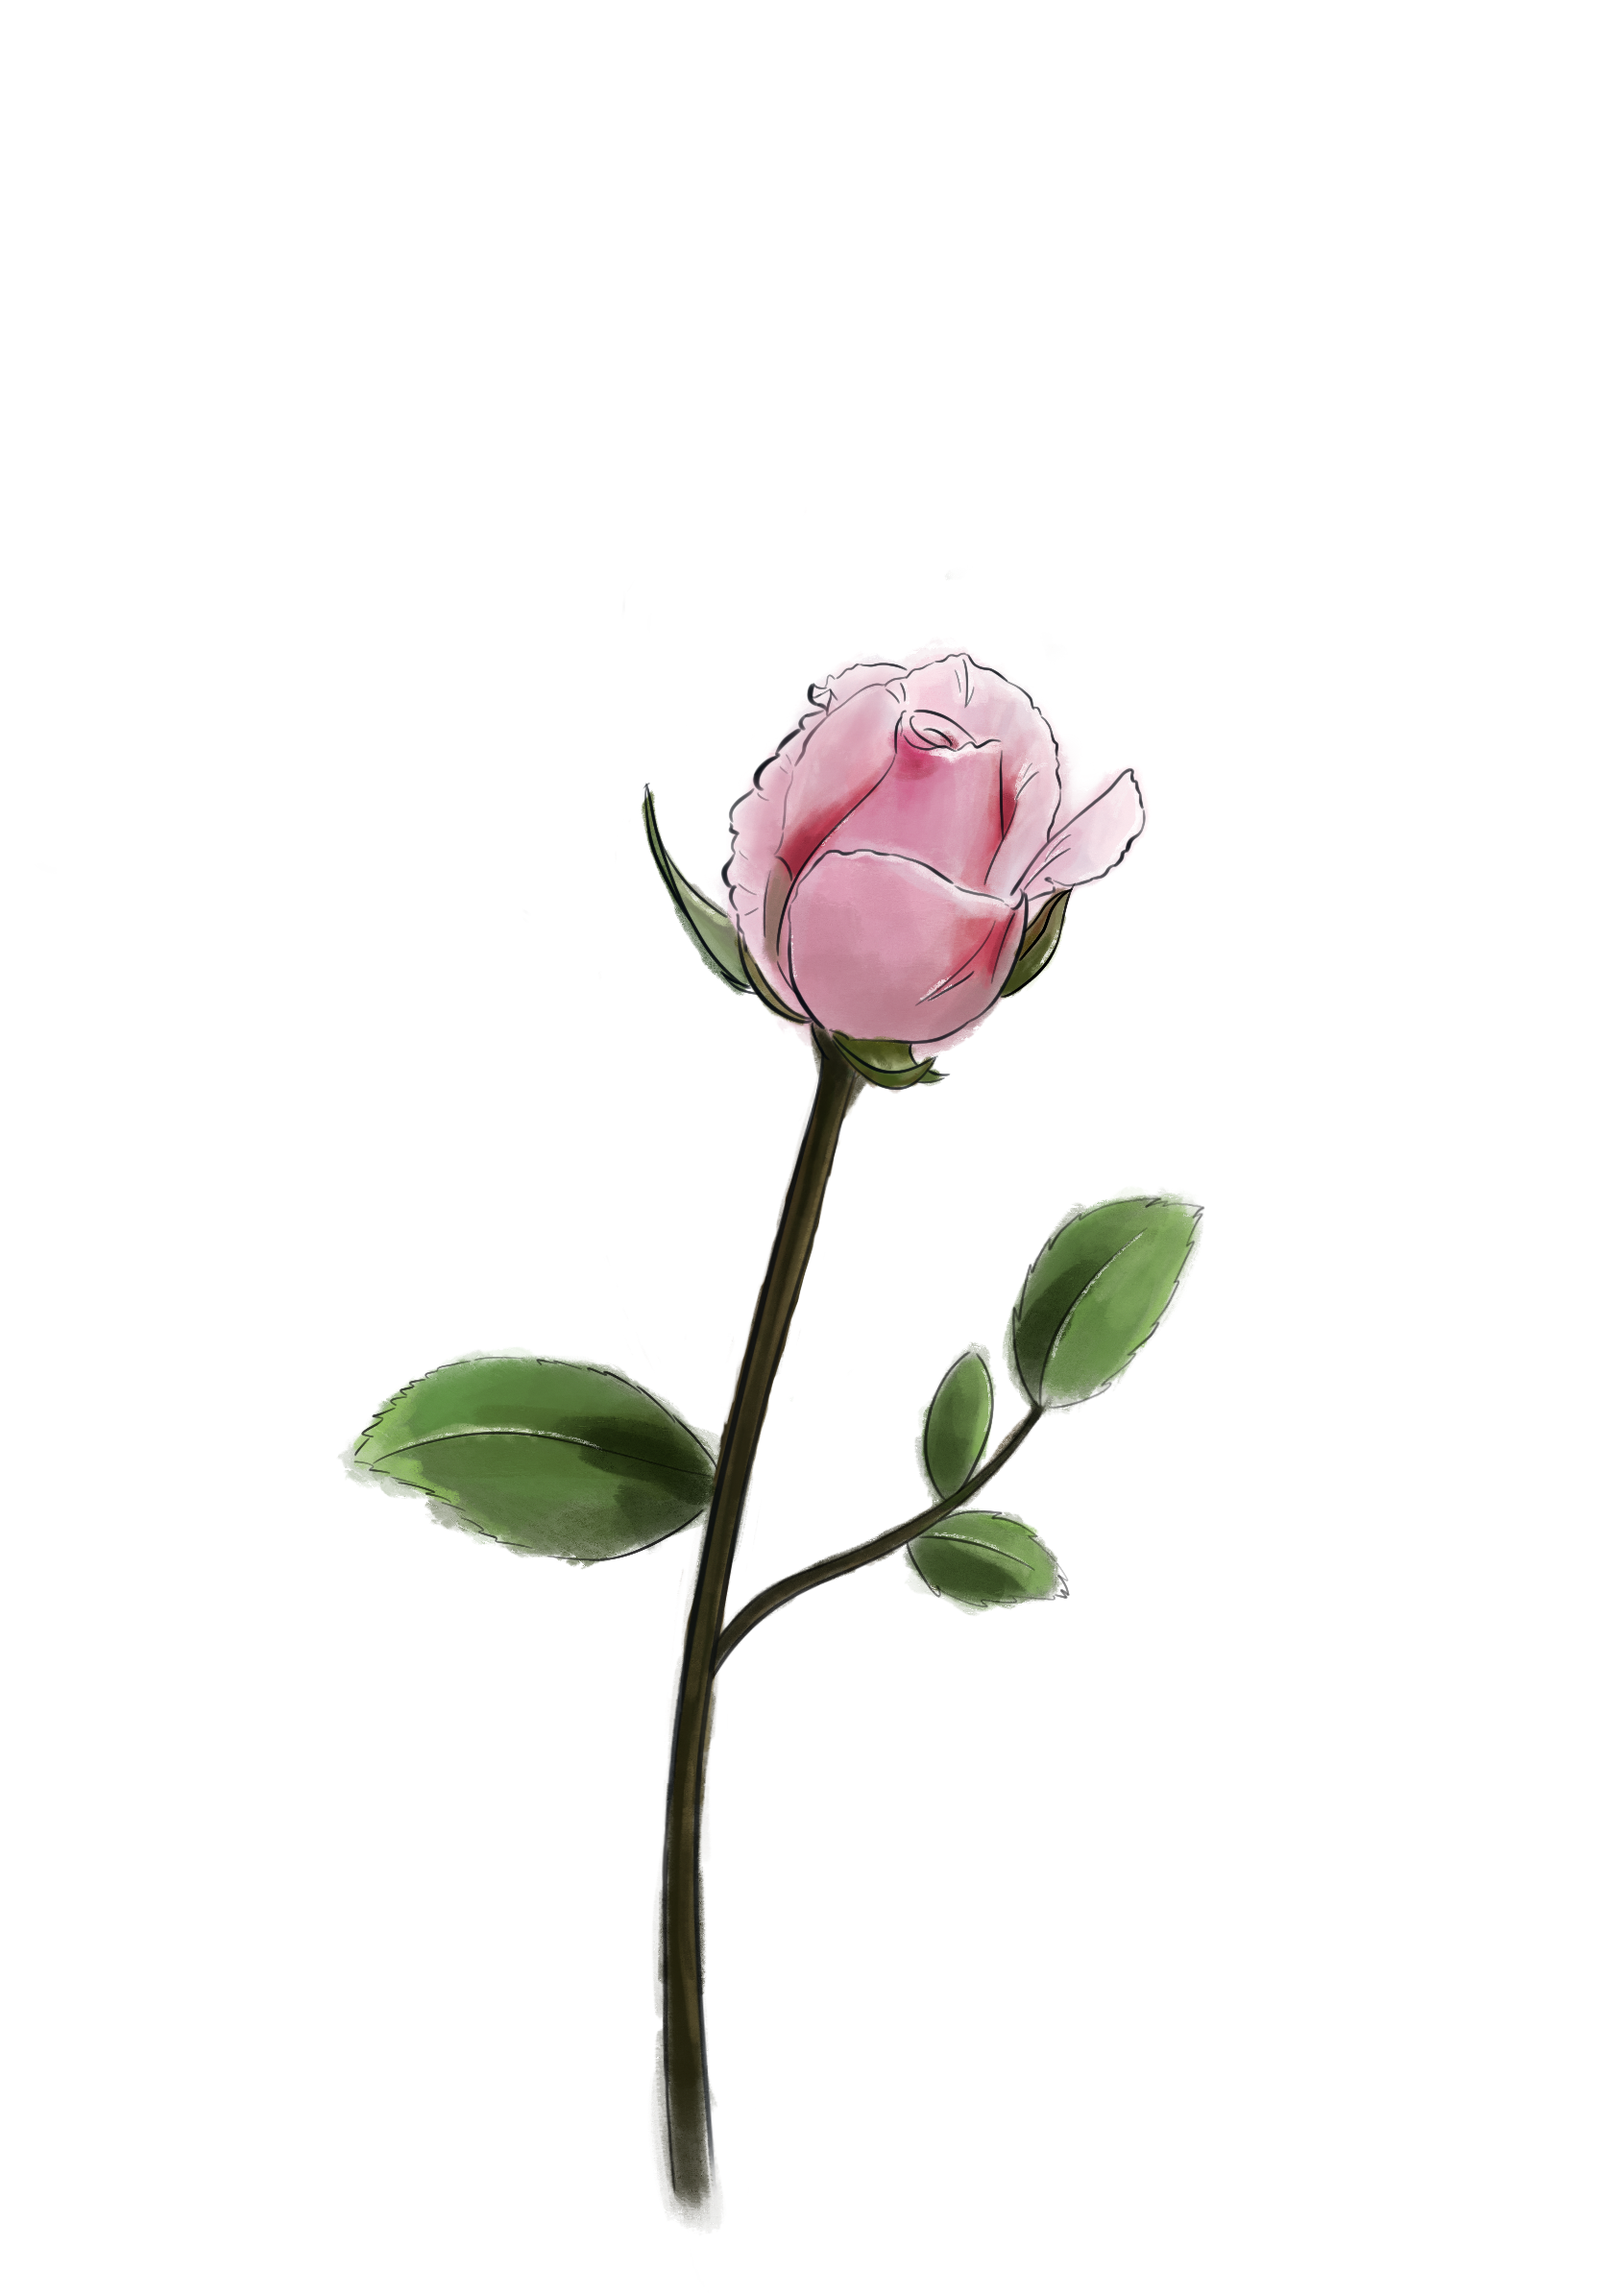
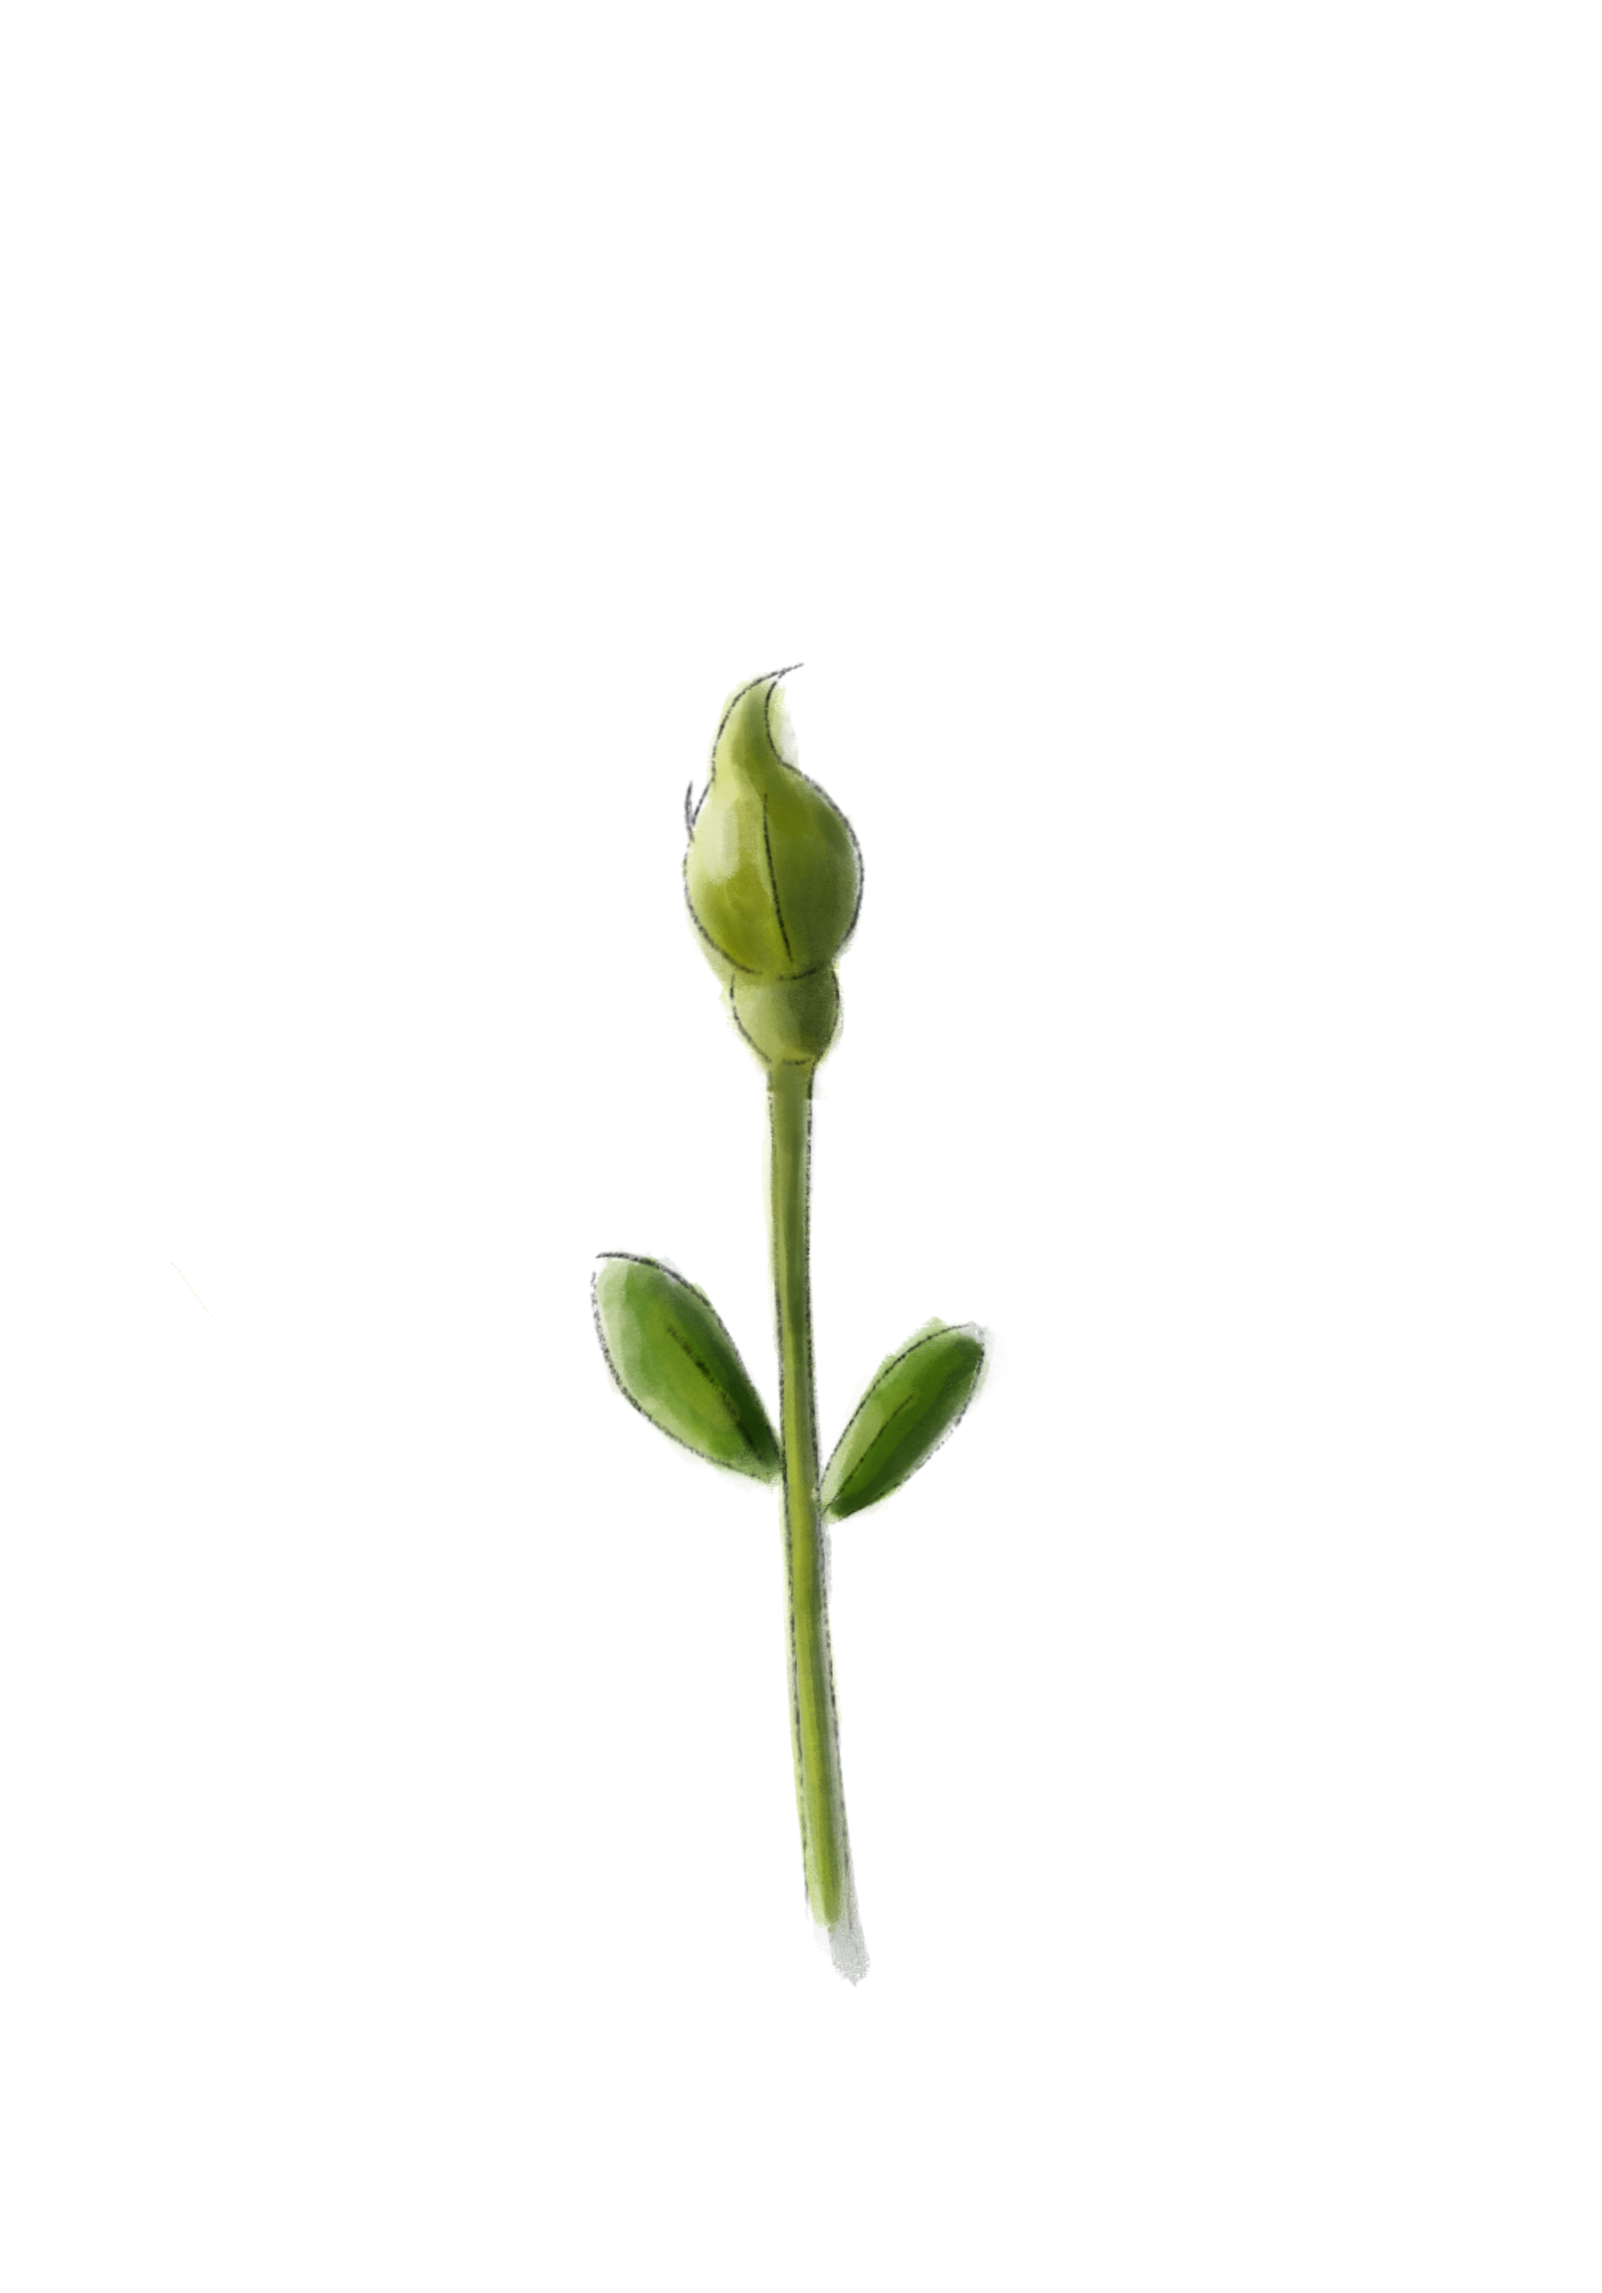
spatial test picture / growth of flower

Changed region(s): [[0.2182, 0.2789, 0.7482, 0.9916]]

diff --git a/Feb.26/myproject/pages/garden-view/garden-view.js b/Feb.26/myproject/pages/garden-view/garden-view.js
@@ -1,4 +1,4 @@
-import React, { useState } from 'react';
+import React, { useState, useEffect } from 'react';
 import {
     Animated,
     SafeAreaView,
@@ -15,17 +15,71 @@ import {
     TouchableOpacity,
 } from 'react-native';
 import { Dimensions } from 'react-native';
+import { getData, storeData } from '../api/file-storage';
 
 // Drag to walk
 const windowHeight = Dimensions.get('window').height;
 const windowWidth = Dimensions.get('window').width;
 console.log("\nPhone dimension get:\nWidth:",windowWidth,"Height:",windowHeight)
 const Gardenviews1 = ({navigation}) => {
-    const [pageX, setPageX] = useState(windowWidth-40)
-    const [pageY, setPageY] = useState(windowHeight-60)
-    const [rowCol, setRowCol] = useState(2)
-    const MAX_ROW_COL = 5
-    var box_id = []
+    var flower_progress = 0
+    var plant_date = Date()
+    var flowerState = flowerStateFunction()
+    const [progress, setProgress] = useState(0)
+
+
+    storeData("flower", String(0))
+
+    useEffect(() => {
+        async function getFlower() {
+            try {
+                getData("flower").then(flower => flower_progress = Number(flower))
+                .catch(function(error){
+                    console.log(error)
+            })
+            } catch(error) {
+                console.log(error)
+            }
+
+            console.log("progress:", flower_progress)
+
+            if(flower_progress == null || isNaN(flower_progress)) {
+                flower_progress = 0
+            }
+
+        }
+
+            setInterval(async function() {
+                if(flower_progress >= 1) {
+                    flower_progress = 1
+                }
+                flower_progress+=0.1
+                await storeData("flower", String(flower_progress))
+                console.log("current progress:", flower_progress)
+                flowerState = flowerStateFunction()
+                console.log(flowerStateFunction())
+                setProgress(flowerState)
+            }, 3000)
+        getFlower()
+
+        return () => {
+            console.log("unmount")
+        }
+    }, [])
+    
+    function flowerStateFunction() {
+        if(flower_progress >= 0.9) {
+            return 3
+        }else if (flower_progress >= 0.3) {
+            return 2
+        }else if (flower_progress >= 0.1) {
+            return 1
+        }
+        return 0
+    }
+    //var flowerState = flowerStateFunction()
+    //const flowerState = 1
+    //console.log("Flower State:", flowerState)
 
     return (
         <View
@@ -41,11 +95,47 @@ const Gardenviews1 = ({navigation}) => {
             <ImageBackground
                 source={require("../../assets/garden.jpeg")}
                 style={[styles.image]}
-            >
-                <Image 
+            >   
+                {progress == 0 ? (
+                    <Image 
+                    source={require("../../assets/rose_0.png")}
+                    style={[styles.flower]}
+                    />
+                    ) : (
+                        <></>
+                    )
+                }
+
+                {progress == 1 ? (
+                    <Image 
                     source={require("../../assets/rose_1.png")}
+                    style={[styles.flower, {marginTop: 50}]}
+                    />
+                    ) : (
+                        <></>
+                    )
+                }
+
+                {progress == 2 ? (
+                    <Image 
+                    source={require("../../assets/rose_2.png")}
                     style={styles.flower}
-                />
+                    />
+                    ) : (
+                        <></>
+                    )
+                }
+
+                {progress == 3 ? (
+                    <Image 
+                    source={require("../../assets/rose_3.png")}
+                    style={styles.flower}
+                    />
+                    ) : (
+                        <></>
+                    )
+                }
+                
             </ImageBackground>
         </View>
     );
@@ -64,7 +154,7 @@ const styles = StyleSheet.create({
 
     flower: {
         height: '60%',
-        width: '60%',
+        width: '70%',
         marginLeft: 'auto',
         marginRight: 'auto',
         top: '40%'

diff --git a/Feb.26/myproject/App.js b/Feb.26/myproject/App.js
@@ -32,15 +32,17 @@ const App = () => {
   return (
   <NavigationContainer>
     <Stack.Navigator>
-      <Stack.Screen name="Sound" component={SoundCollection} />
+      {/* <Stack.Screen name="Sound" component={SoundCollection} />
       <Stack.Screen name="Posture" component={Sit} />
       <Stack.Screen name="Last Time Took Medicine" component={LastMedication}/>
       <Stack.Screen name="Next Time Taking Medicine" component={NextMedication} />
       <Stack.Screen name="Medicine Effectiveness" component={MedicationEffect}/>        
       <Stack.Screen name="Note" component={Pocket} />
       <Stack.Screen name="Outsideviews1" component={Outsideviews1} options={{ headerShown: false, gestureEnabled: false }} />
-      <Stack.Screen name="Outsideviews2" component={Outsideviews2} options={{ headerShown: false, gestureEnabled: false }} /> 
-      <Stack.Screen name="Gardenviews1" component={Gardenviews1} options={{ headerShown: false, gestureEnabled: false }} />
+      <Stack.Screen name="Gardenviews1" component={Gardenviews1} options={{ headerShown: false, gestureEnabled: false }} /> 
+      <Stack.Screen name="Outsideviews2" component={Outsideviews2} options={{ headerShown: false, gestureEnabled: false }} />*/}
+
+      <Stack.Screen name="Gardenviews1" component={Gardenviews1} options={{ headerShown: false, gestureEnabled: false }} /> 
     </Stack.Navigator>
   </NavigationContainer>
   );

diff --git a/Feb.26/myproject/pages/outside-view/outside-view.js b/Feb.26/myproject/pages/outside-view/outside-view.js
@@ -296,7 +296,8 @@ const Outsideviews2 = ({navigation}) => {
                                 }
                             }
                             > 
-                                <Animated.View
+                                <Animated.Image
+                                    source={require("../../assets/spatial.jpg")}
                                     style={[styles.square2, {opacity: fadeAnim.current[boxID], width: '100%', height: '100%', marginRight: 'auto', marginLeft: 'auto'}]}
                                 />
                             </TouchableOpacity>
